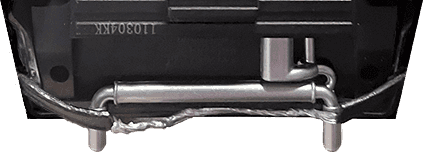
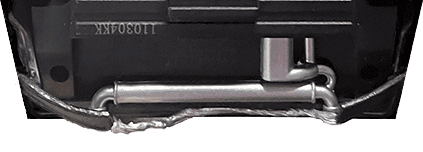
Had to do this twice cause I forgot to commit before taking the machine to the Apple Store.

Changed region(s): [[0.7376, 0.8158, 0.8298, 1.0], [0.1844, 0.8421, 0.2766, 1.0]]

diff --git a/src/future/bttf-tunnel/delorean/exterior/_.js b/src/future/bttf-tunnel/delorean/exterior/_.js
@@ -1,6 +1,7 @@
 import * as THREE from 'three'
 
-import assExtBackBarFace from 'url:/src/future/bttf-tunnel/delorean/exterior/backBarFace.png'
+import assBackBar from 'url:/src/future/bttf-tunnel/delorean/exterior/backBar.png'
+import assBackBarEmissive from 'url:/src/future/bttf-tunnel/delorean/exterior/backBarEmissive.png'
 import assRearVentTop from 'url:/src/future/bttf-tunnel/delorean/exterior/rearVentTop.png'
 import assRearVentSide from 'url:/src/future/bttf-tunnel/delorean/exterior/rearVentside.png'
 import assRearVentLeftBackTop from 'url:/src/future/bttf-tunnel/delorean/exterior/rearVentLeftBackTop.png'
@@ -27,129 +28,32 @@ import * as threeMesh from '/src/shared/three/mesh'
 import * as threeX from '/src/shared/three/x'
 
 const makeBackBar = () => {
-  const bb = {
-    c: 15,
-    h: 40,
-    w: 92,
-  }
-  const msh = { ...g.bttf.msh }
-  const barFaceMats = []
-  for ( let face = 0; face < 8; face++ ) {
-    const mshMap = {
-      map: threeMake.textureLoader( assExtBackBarFace ),
-    }
-    barFaceMats[face] = new THREE.MeshBasicMaterial( {
-      ...msh,
-      ...mshMap,
-    } )
-  }
-  barFaceMats.forEach( ( _, f ) => {
-    if ( barFaceMats[f].map ) {
-      barFaceMats[f].map.wrapS = barFaceMats[f].map.wrapT = THREE.RepeatWrapping
-
-      switch ( f ) {
-        case 0:
-          barFaceMats[f].map.repeat.set( ( bb.w - ( bb.c * 2 ) ) / bb.w, bb.c / bb.h )
-          barFaceMats[f].map.offset.x = bb.c / bb.w
-          barFaceMats[f].map.offset.y = ( bb.h - bb.c ) / bb.h
-          break
-        case 1:
-          barFaceMats[f].map.repeat.set( bb.c / bb.w, ( bb.h - bb.c ) / bb.h )
-          barFaceMats[f].map.rotation = threeMake.degToRad( -90 )
-          break
-        case 2:
-          barFaceMats[f].map.repeat.set( bb.c / bb.w, ( bb.h - bb.c ) / bb.h )
-          barFaceMats[f].map.rotation = threeMake.degToRad( -90 )
-          break
-        case 3:
-          barFaceMats[f].map.repeat.set( 1, bb.c / bb.h )
-          barFaceMats[f].map.offset.y = ( bb.h - bb.c ) / bb.h
-          break
-        case 4:
-          barFaceMats[f].map.repeat.set( bb.c / bb.w, 1 )
-          barFaceMats[f].map.rotation = threeMake.degToRad( 90 )
-          barFaceMats[f].map.offset.x = ( bb.w - bb.c ) / bb.w
-          break
-        case 5:
-          barFaceMats[f].map.repeat.set( bb.c / bb.w, 1 )
-          barFaceMats[f].map.rotation = threeMake.degToRad( -90 )
-          break
-        case 6:
-          barFaceMats[f].map.rotation = threeMake.degToRad( 180 )
-          break
-      }
-    }
+  const barCrv = [
+    [ 7.5, 0, 0 ],
+    [ 7.5, -25, 0 ],
+    [ 15, -32.5, 0 ],
+    [ 46, -34, 0 ],
+    [ 77, -32.5, 0 ],
+    [ 84.5, -25, 0 ],
+    [ 84.5, 0, 0 ],
+  ]
+  const crvPts = threeMake.createVector3s( barCrv )
+  const tubeCrv = new THREE.CatmullRomCurve3( crvPts )
+  const tubeMap = threeMake.textureLoader( assBackBar )
+  const tubeEmissiveMap = threeMake.textureLoader( assBackBarEmissive )
+  const tubeGeo = new THREE.TubeGeometry( tubeCrv, 24, 7.5, 10, false )
+  const tubeMat = new THREE.MeshStandardMaterial( {
+    map: tubeMap,
+    side: THREE.DoubleSide,
+    emissive: threeMake.color( 0xffffff ),
+    emissiveIntensity: 0.64,
+    emissiveMap: tubeEmissiveMap,
   } )
-
+  const tubeMsh = new THREE.Mesh( tubeGeo, tubeMat )
   return {
-    // struct: [ 92, 15, 40 ],
-    position: [ 0, -284, -202 ],
-    children: {
-      backBarInner: {
-        struct: [ 62, 15, 25 ],
-        position: [ 0, 0, 7.5 ],
-        children: {
-          backBarInnerTop: {
-            struct: [ 62, 15 ],
-            position: [ 0, 0, -25 ],
-            mat: barFaceMats[0],
-          },
-          backBarInnerLeft: {
-            struct: [ 25, 15 ],
-            pivot: [ 12.5 ],
-            position: [ 31 ],
-            rotation: [ 0, 90 ],
-            mat: barFaceMats[1],
-          },
-          backBarInnerRight: {
-            struct: [ 25, 15 ],
-            pivot: [ 12.5 ],
-            position: [ -31 ],
-            rotation: [ 180, -90 ],
-            mat: barFaceMats[2],
-          },
-        },
-      },
-      backBarOuter: {
-        geo: 'box',
-        struct: [ 92, 15, 40 ],
-        children: {
-          backBarOuterTop: {
-            struct: [ 92, 15 ],
-            position: [ 0, 0, -32.5 ],
-            mat: barFaceMats[3],
-          },
-          backBarOuterLeft: {
-            struct: [ 40, 15 ],
-            pivot: [ -20 ],
-            position: [ 46, 0, 7.5 ],
-            rotation: [ 0, -90 ],
-            mat: barFaceMats[4],
-          },
-          backBarOuterRight: {
-            struct: [ 40, 15 ],
-            pivot: [ 20 ],
-            position: [ -46, 0, 7.5 ],
-            rotation: [ 0, 90 ],
-            mat: barFaceMats[5],
-          },
-          backBarOuterFront: {
-            struct: [ 92, 40 ],
-            pivot: [ 0, 20 ],
-            position: [ 0, 7.5, -32.5 ],
-            rotation: [ 90 ],
-            mat: barFaceMats[6],
-          },
-          backBarOuterBack: {
-            struct: [ 92, 40 ],
-            pivot: [ 0, 20 ],
-            position: [ 0, -7.5, 7.5 ],
-            rotation: [ -90 ],
-            mat: barFaceMats[7],
-          },
-        },
-      },
-    },
+    msh: tubeMsh,
+    position: [ -46, -284, -202 ],
+    rotation: { x: 90 },
   }
 }
 
@@ -445,12 +349,13 @@ const makeLightBarRails = where => {
       const crvPts = threeMake.createVector3s( lb.crv )
       const tubeCrv = new THREE.CatmullRomCurve3( crvPts )
       const tubeMap = threeMake.textureLoader( assPipeMetal03 )
-      const tubeGeo = new THREE.TubeGeometry( tubeCrv, 120, 2.5, 32, false )
+      const tubeGeo = new THREE.TubeGeometry( tubeCrv, 120, 2.5, 10, false )
       const tubeMat = new THREE.MeshStandardMaterial( {
         color: 0xcccccc,
-        side: THREE.DoubleSide,
+        emissive: threeMake.color(0xffffff),
+        // emissiveIntensity: 0.24,
         emissiveMap: tubeMap,
-        emissive: threeMake.color( 0xffffff ),
+        side: THREE.DoubleSide,
       } )
       const tubeMsh = new THREE.Mesh( tubeGeo, tubeMat )
       if ( lbr % 2 ) threeMesh.mirrorMesh( tubeMsh )

diff --git a/src/future/bttf-tunnel/environment/_.js b/src/future/bttf-tunnel/environment/_.js
@@ -115,22 +115,30 @@ const setTunnelGirders = ( { girders = 25, depth = 3600 } = {} ) => {
         } )
         rotators.forEach( rotator => {
           rotator.rotateY( -threeMake.degToRad( 3 ) )
-          rotator.children.forEach( rChild => {
-            if ( typeof rChild.intensity !== 'undefined' && rChild.intensity < 3 ) rChild.intensity += 0.15
-          } )
         } )
         if ( gdrGrp.position.z >= -( g.bttf.pilotingDepth + g.bttf.lampPosts.turnDepthAdjustment ) ) {
           if ( lampPostPair.children[0].rotation.y > threeMake.degToRad( -90 ) ) lampPostPair.children[0].rotateY( threeMake.degToRad( -10 ) )
           if ( lampPostPair.children[1].rotation.y > threeMake.degToRad( -90 ) ) lampPostPair.children[1].rotateY( threeMake.degToRad( 10 ) )
           rotators.forEach( rotator => {
-            rotator.children.forEach( rChild => {
-              if ( typeof rChild.intensity !== 'undefined' && rChild.intensity > 0 ) rChild.intensity -= 0.15
+            rotator.children.forEach( rPair => {
+              rPair.children.forEach( rLight => {
+                if ( typeof rLight.intensity !== 'undefined' && rLight.intensity > 0 ) rLight.intensity -= 0.1
+              } )
+            } )
+          } )
+        } else {
+          rotators.forEach( rotator => {
+            rotator.children.forEach( rPair => {
+              rPair.children.forEach( rLight => {
+                if ( typeof rLight.intensity !== 'undefined' && rLight.intensity < 3 ) rLight.intensity += 0.1
+              } )
             } )
           } )
         }
       }
-      if ( gdrGrp.position.z >= -g.bttf.tunnel.girderSpacing && gdr.material.opacity > 0 ) gdr.material.opacity = 0
+      if ( gdrGrp.position.z >= -g.bttf.tunnel.girderSpacing && gdr.material.opacity > 0 ) gdr.material.opacity -= 0.05
       else if ( gdr.material.opacity < 1 ) gdr.material.opacity += 0.01
+      if ( lampPostPair.name.length && !g.bttf.drg ) lampPostPair.position.y += 10
       if ( gdrGrp.position.z >= 0 ) {
         gdrGrp.position.z = 0 - ( g.bttf.tunnel.girderSpacing * ( girders - 1 ) )
         if ( lampPostPair.name.length && g.bttf.drg ) {
@@ -173,7 +181,7 @@ const setSmokePuff = ( {
 }
 
 const setTunnelSmoke = ( {
-  puffsPerGirder = 2, freePuffs = 16, depth = 3000, tvp,
+  maxPuffsPerGirder = 2, freePuffs = 20, depth = 3000, tvp,
 } = {} ) => {
   const smokem = [
     'c56fdd',
@@ -200,6 +208,7 @@ const setTunnelSmoke = ( {
 
     for ( let gdr = 0; gdr < g.bttf.grp.tunnel.children.length - 1; gdr++ ) {
       puffPosZ = ( g.bttf.tunnel.girderSpacing - girderPuffSpacing ) / 2
+      const puffsPerGirder = randoNum( 0, maxPuffsPerGirder )
       for ( let pf = 0; pf < puffsPerGirder; pf++ ) {
         const puffPos = setSmokePuff( { margin, svp: tvp } )
         const smokeMat = new THREE.MeshLambertMaterial( {
@@ -324,6 +333,7 @@ const pairLampPostsInto = ( lampPostPair, tvp ) => {
           color: threeMake.color( 0x4f191f ),
           side: THREE.DoubleSide,
           emissive: threeMake.color( 0x4f191f ),
+          emissiveIntensity: 3,
           emissiveMap: supportRodEmissiveMap,
           map: supportRodMap,
         } )
@@ -656,8 +666,9 @@ const addSpotLightsToLampPostPair = lampPostPair => {
 
   // rotating ring of spotlights
   const rotators = [ lampPostPair.getObjectByName( `${lampPostPair.name}_leftLampRotator`, true ), lampPostPair.getObjectByName( `${lampPostPair.name}_rightLampRotator`, true ) ]
+  let rotatePair = 0
   rotators.forEach( rotator => {
-    let rotatePair = 0
+    if ( rotatePair > 0 ) rotatePair = 45
     for ( let rp = 0; rp < 2; rp++ ) {
       const rotatorPair = new THREE.Group()
       for ( let rpp = 0; rpp < 2; rpp++ ) {
@@ -687,7 +698,6 @@ const addSpotLightsToLampPostPair = lampPostPair => {
       }
       rotatorPair.rotateY( threeMake.degToRad( rotatePair ) )
       rotatePair += 90
-      // if ( rotatePair >= 360 ) rotatePair = 0
       rotator.add( rotatorPair )
     }
   } )
@@ -706,7 +716,7 @@ const addSpotLightsToLampPostPair = lampPostPair => {
 
 const setLampPosts = tvp => {
   const lampPostPair = new THREE.Group()
-  lampPostPair.position.y = -4000
+  lampPostPair.position.y = 10000
   if ( !g.bttf.inScene.lampPostPairs ) g.bttf.inScene.lampPostPairs = []
   lampPostPair.name = `lampPostPair_${padStr( g.bttf.inScene.lampPostPairs.length )}`
   g.bttf.inScene.tunnel.children[g.bttf.inScene.tunnel.children.length - 1].add( lampPostPair )

diff --git a/src/future/bttf-tunnel/delorean/undercarriage/_.js b/src/future/bttf-tunnel/delorean/undercarriage/_.js
@@ -11,53 +11,21 @@ import assExhaustPipeInner from 'url:/src/future/bttf-tunnel/delorean/undercarri
 import g from '/src/shared/_'
 import * as threeMake from '/src/shared/three/make'
 
-const makeExhaustPipeFace = face => {
-  const rotation = [ 0, 0, 0 ]
-  const position = [ 0, 0, 0 ]
-  switch ( face ) {
-    case 'L':
-      position[0] = 9.5
-      rotation[1] = -90
-      break
-    case 'R':
-      position[0] = -9.5
-      rotation[1] = 90
-      break
-    case 'T':
-      position[2] = -9.5
-      rotation[1] = 180
-      break
-    case 'B':
-      position[2] = 9.5
-      break
-  }
-  return {
+const makeExhaustPipe = side => ( {
+  [`exP${side}`]: {
+    geo: 'cylinder',
     txtAss: assExhaustPipeOuter,
-    struct: [ 19, 40 ],
-    position,
-    rotation,
-  }
-}
-
-const makeExhaustPipe = side => {
-  const faces = [
-    'L',
-    'R',
-    'T',
-    'B',
-  ]
-  const pipe = {}
-  faces.forEach( face => {
-    pipe[`exP${side}${face}`] = makeExhaustPipeFace( face )
-  } )
-  pipe[`exP${side}C`] = {
+    // eslint-disable-next-line array-bracket-newline, array-element-newline
+    struct: [ 9.5, 9.5, 40, 10, 1, true ],
+  },
+  [`exP${side}C`]: {
+    geo: 'circle',
+    struct: [ 9, 10 ],
     txtAss: assExhaustPipeInner,
-    struct: [ 18.5, 18.5 ],
-    position: [ 0, -10 ],
+    position: [ 0, -100 ],
     rotation: [ 90 ],
-  }
-  return pipe
-}
+  },
+} )
 
 const makeWheelMech = ( wheel, mobile ) => {
   const wheelIsFront = wheel.includes( 'F' )
@@ -144,14 +112,14 @@ const makeUnderCarriage = () => ( {
               position: [ 0, -132, -9 ],
               children: {
                 exPL: {
-                  struct: [ 19, 40, 19 ],
+                  // struct: [ 19, 40, 19 ],
                   children: makeExhaustPipe( 'L' ),
                   position: [ 123 ],
                 },
                 exPR: {
-                  struct: [ 19, 40, 19 ],
+                  // struct: [ 19, 40, 19 ],
                   children: makeExhaustPipe( 'R' ),
-                  position: [ -118 ],
+                  position: [ -117 ],
                 },
               },
             },

diff --git a/src/future/bttf-tunnel/_.js b/src/future/bttf-tunnel/_.js
@@ -52,15 +52,15 @@ const setBTTF = ( {
         turnDepthAdjustment: 500,
       },
       lampPostPairs: {
-        clearance: 1024,
+        clearance: 1442,
         position: {
           x: {
             min: 0.33,
             max: 0.66,
           },
           y: {
-            min: 0.3,
-            max: 0.75,
+            min: 0.33,
+            max: 0.66,
           },
         },
       },
@@ -197,5 +197,5 @@ const togglePauseThree = () => {
 }
 
 export {
-  setBTTF, togglePauseThree
+  setBTTF, togglePauseThree,
 }

diff --git a/src/app.js b/src/app.js
@@ -190,7 +190,7 @@ const loadApp = () => {
   if ( g.dev && g.el.future.classList.contains( 'model' ) ) {
     toggleFermata( { exceptTLs: [ 'dL' ] }, true )
     setBTTF( {
-      controls: false, smoke: true, stats: true,
+      controls: true, smoke: false, stats: true, tunnel: false,
     } )
     prepDeLorean()
     g.el.lynchBox.style.opacity = 1

diff --git a/src/future/_.html b/src/future/_.html
@@ -1,4 +1,4 @@
-<main id="future" class="animBlock">
+<main id="future" class="animBlock model">
 
   <include src="src/future/glitch/_.html"></include>
 
